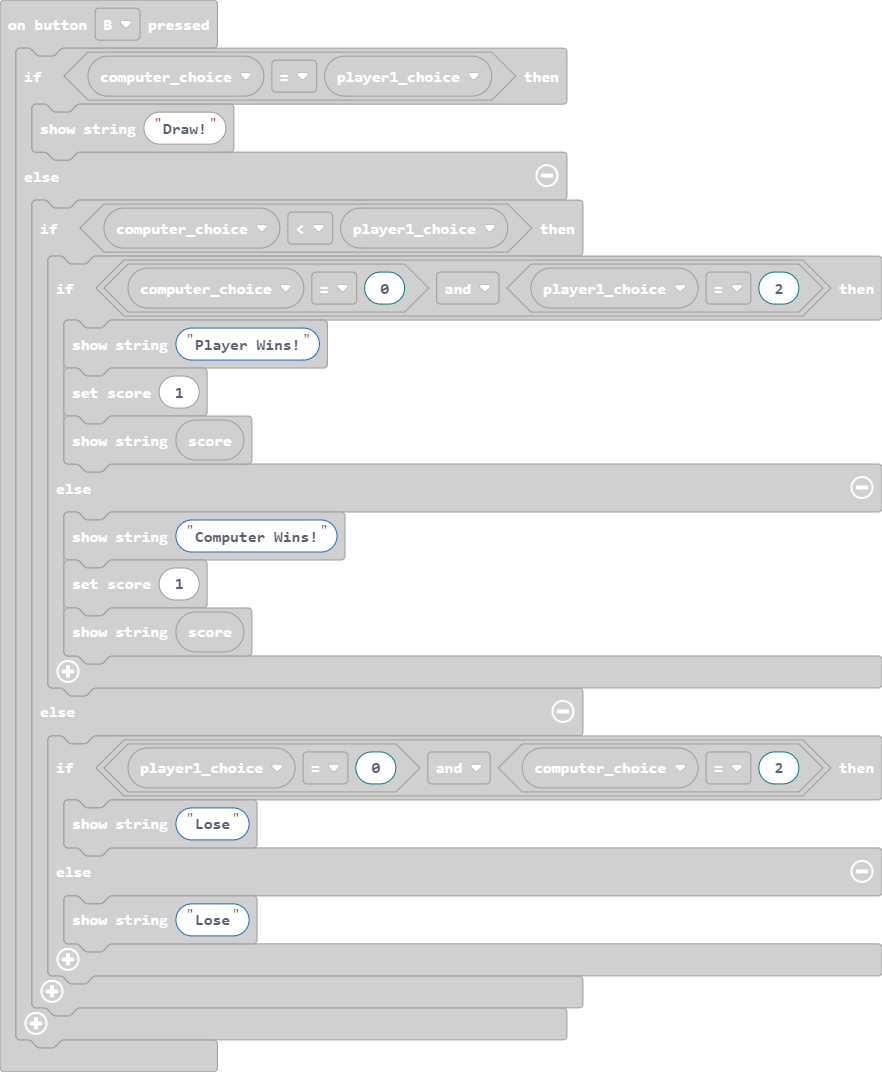
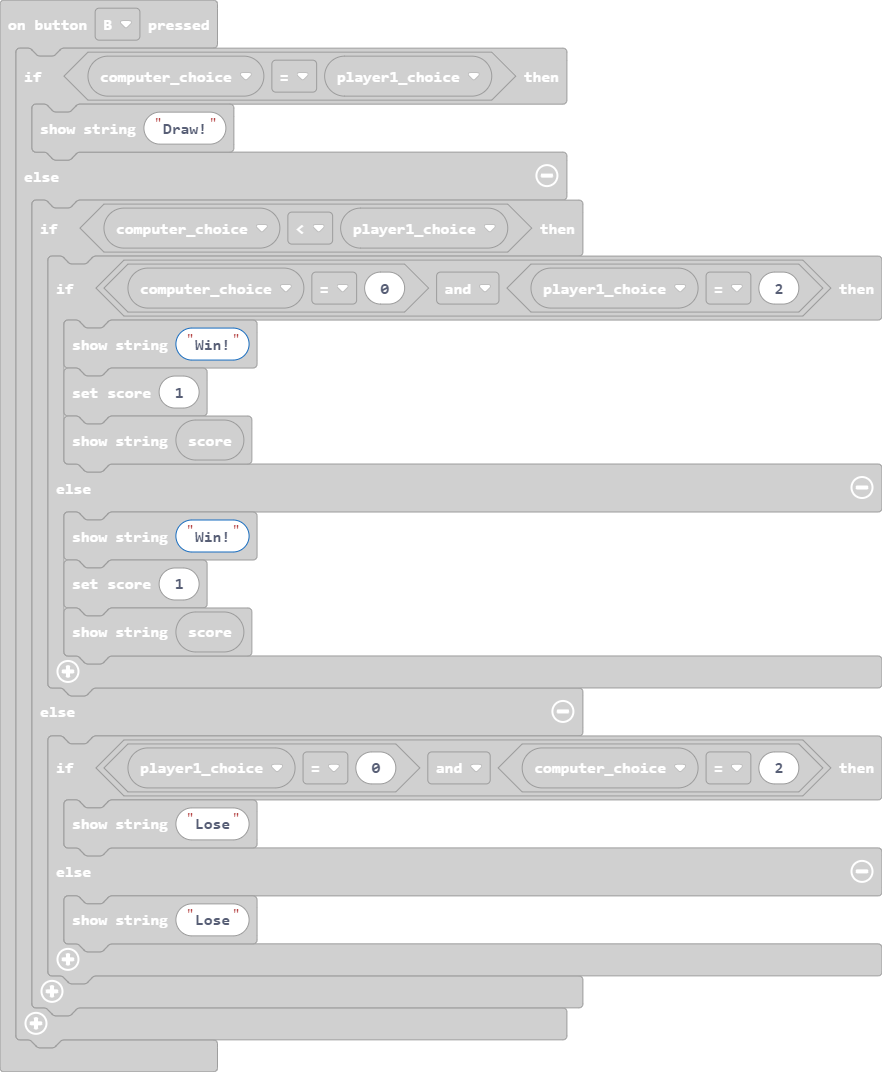
Update main.blocks, main.ts

Changed region(s): [[0.2143, 0.2771, 0.398, 0.3694], [0.2143, 0.4618, 0.398, 0.5233]]

diff --git a/main.ts b/main.ts
@@ -37,11 +37,11 @@ input.onButtonPressed(Button.B, function () {
     } else {
         if (computer_choice < player1_choice) {
             if (computer_choice == 0 && player1_choice == 2) {
-                basic.showString("Player Wins!")
+                basic.showString("Win!")
                 game.setScore(1)
                 basic.showString("" + (game.score()))
             } else {
-                basic.showString("Computer Wins!")
+                basic.showString("Win!")
                 game.setScore(1)
                 basic.showString("" + (game.score()))
             }
